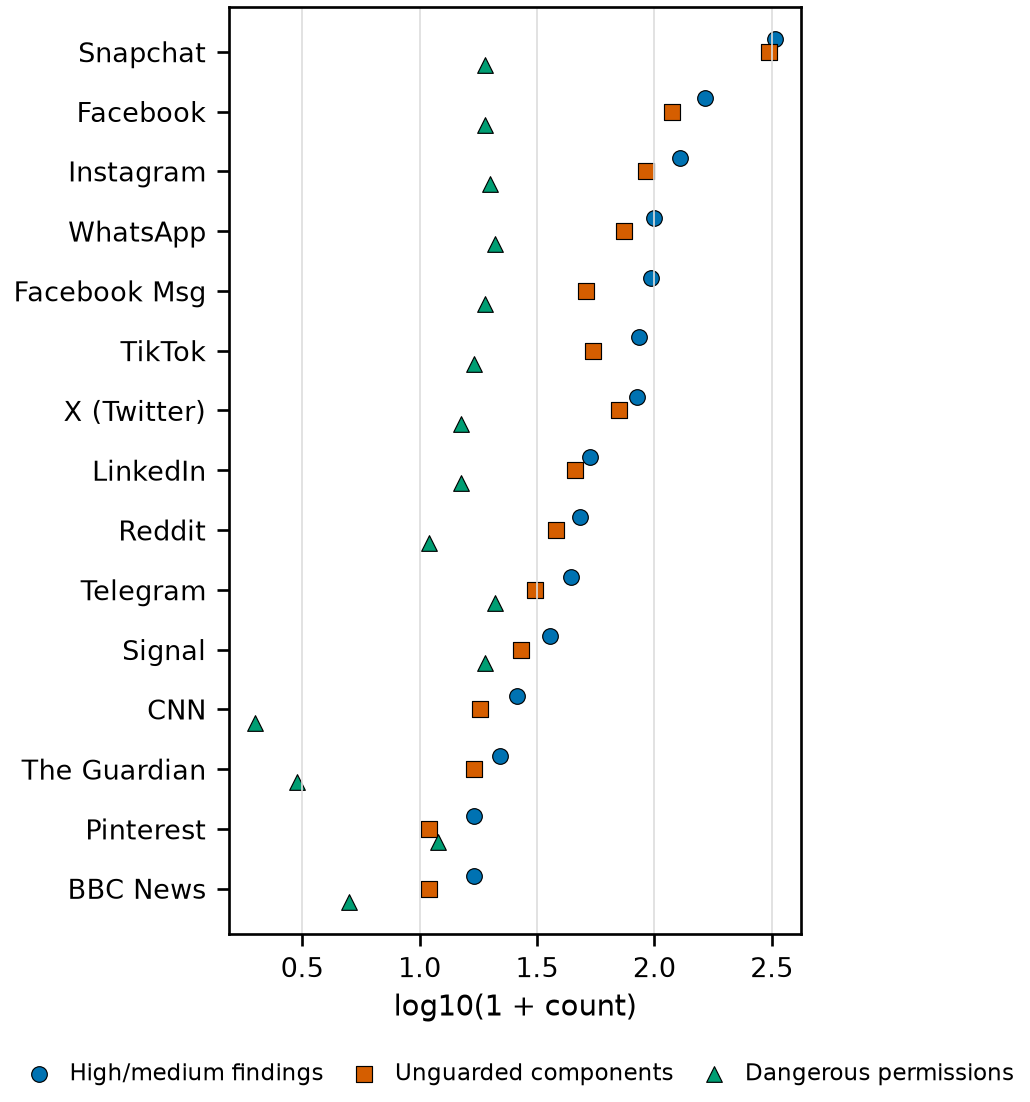
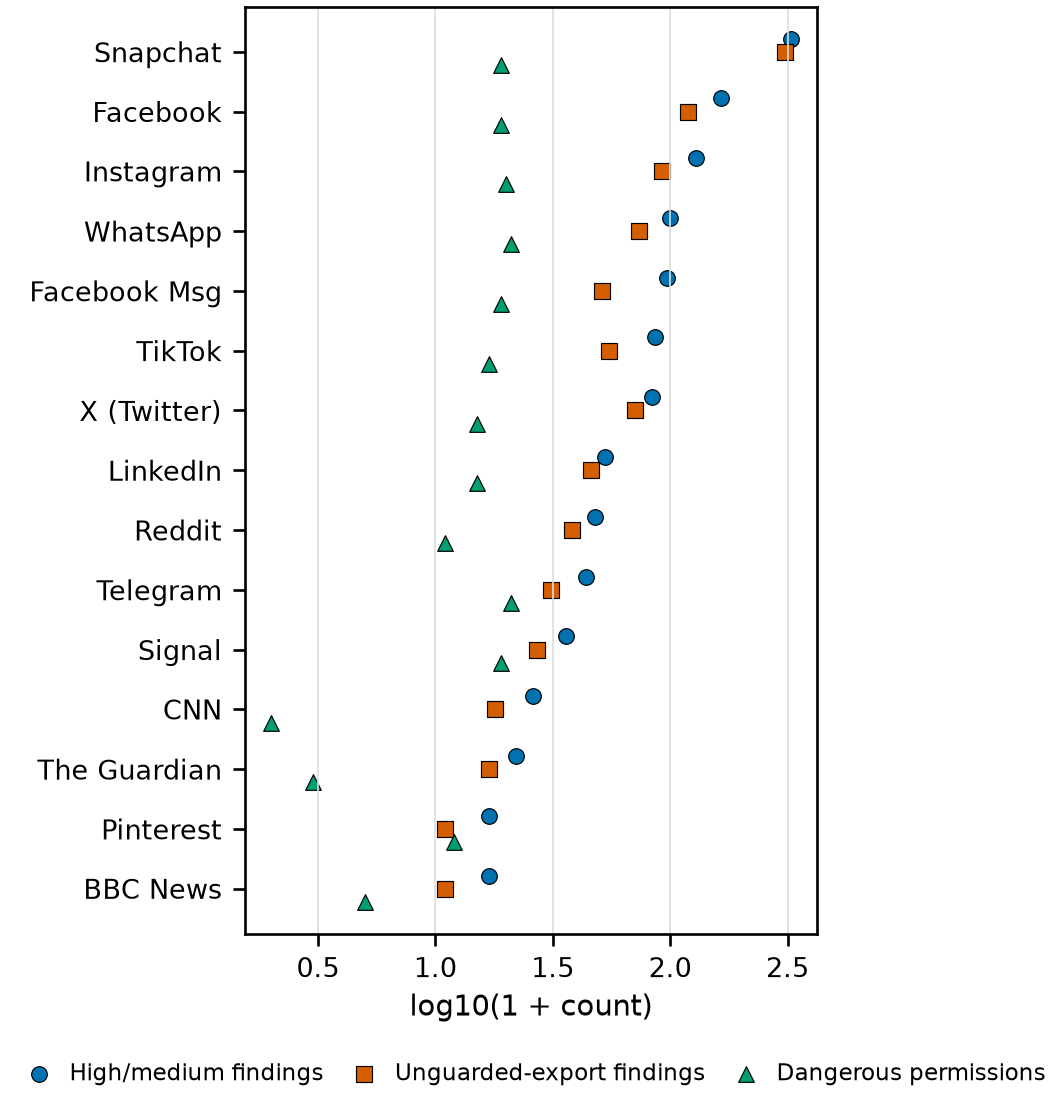
Restore a three-part Discussion and add compact Disconnect matching.
Separate evidence stability, risk-posture interpretation, and QFG; keep Algorithm 1's qualification policy distinct from build ranking; and report third-party tracker association without implying leakage.

diff --git a/content/04_methodology.tex b/content/04_methodology.tex
@@ -10,13 +10,13 @@ Collection was conducted on a non-root Motorola Moto G 5G (2024) running Android
 
 Static analysis used the harvested base and split APK artifacts associated with each selected build. The reported variables include dangerous permissions, high- and medium-severity findings, unguarded-export findings, network- and storage-related findings, privacy and platform findings, MASVS-aligned categories, and supported SDK or service indicators \cite{owaspMasvs2024}. Unguarded-export findings are High- or Medium-severity detector rows whose titles indicate a missing permission or a weak guard; they count finding rows, not unique Android components. These measurements represent descriptive exposure indicators rather than calibrated exploitability, compliance, or risk scores.
 
-Runtime analysis used package-associated evidence packs and PCAP-derived metadata. Captures were classified as strict-idle, quiescent foreground (QFG), or interactive. Strict-idle captures represent quiet foreground baselines; QFG captures represent no-touch foreground periods in which app-driven activity continued; and interactive captures exercise user-facing behavior. Runtime variables include capture count and duration, PCAP volume, packet rate, retained DNS/SNI hostname breadth, service families, protocol prevalence, and baseline-relative changes where comparable baseline and interactive evidence were available. Hostname breadth is the per-run union of retained top DNS and TLS-SNI names, not an exhaustive inventory of endpoints.
+Runtime analysis used package-associated evidence packs and PCAP-derived metadata. Captures were classified as strict-idle, quiescent foreground (QFG), or interactive. Strict-idle captures represent quiet foreground baselines; QFG captures represent no-touch foreground periods in which app-driven activity continued; and interactive captures exercise user-facing behavior. Runtime variables include capture count and duration, PCAP volume, packet rate, retained DNS/SNI hostname breadth, service families, protocol prevalence, and baseline-relative changes where comparable baseline and interactive evidence were available. Hostname breadth is the per-run union of retained top DNS and TLS-SNI names, not an exhaustive inventory of endpoints. Retained interactive DNS/SNI hostnames were matched by exact or subdomain relation against a pinned Disconnect services list; each app's documented first-party registrable domain was excluded from the third-party count \cite{disconnectTrackingProtection}.
 
 \subsection{Build Selection and Evidence Alignment}
 
 Qualification policy $P$ is the historical technical-validity rule used for the submitted cohort. A dynamic run qualifies under $P$ when it has a nonempty run identifier, \texttt{valid\_dataset\_run} status, required protocol metadata (profile, sequence, and interaction level), duration of at least 180\,s, at least 20 analysis windows of width 10\,s and stride 5\,s, a PCAP of at least 50\,000\,B (10\,000\,B for qualifying connected or text-messaging captures), and a usable PCAP analysis or an explicit no-traffic result.
 
-Qualifying runs are grouped by package, version, and base APK hash. One build group per app is then chosen by an ordered ranking on readiness, coverage of evidence classes, capped run counts, PCAP and QA state, recency, match to the then-current install, and version code. Static and runtime observations are integrated only when they refer to the same selected build. Evidence with mismatched identity, missing support, invalid QA state, or insufficient signal is excluded or deferred. Algorithm~\ref{alg:build-aligned-selection} summarizes this procedure. A later app-store update does not invalidate evidence from a recent, fully identified build; it instead creates a candidate for future longitudinal comparison.
+Qualifying runs are grouped by package, version code and name, and base APK hash. One build group per app is then chosen by an ordered ranking on readiness, coverage of evidence classes, capped run counts, PCAP and QA state, recency, match to the then-current install, and version code. Static and runtime observations are integrated only when they refer to the same selected build. Evidence with mismatched identity, missing support, invalid QA state, or insufficient signal is excluded or deferred. Algorithm~\ref{alg:build-aligned-selection} summarizes this procedure. A later app-store update does not invalidate evidence from a recent, fully identified build; it instead creates a candidate for future longitudinal comparison.
 
 \begin{algorithm}[!t]
 \caption{Build-Aligned Static-Runtime Evidence Selection}
@@ -26,11 +26,11 @@ Qualifying runs are grouped by package, version, and base APK hash. One build gr
 \ENSURE aligned app-build rows, excluded/deferred rows, source data, checksums
 \FOR{each app $a \in A$}
   \STATE retrieve candidate dynamic runs for $a$ within $W$
-  \STATE apply identity, evidence-validity, signal, PCAP, and QA requirements from $P$
-  \STATE group qualifying runs by normalized package, version code, base APK SHA-256, and artifact/build-set identity
-  \STATE identify build groups satisfying runtime evidence requirements
+  \STATE retain runs satisfying technical qualification policy $P$
+  \STATE group runs by normalized package, version code/name, and base APK SHA-256
+  \STATE summarize evidence-class coverage and readiness for each group
   \STATE select one group using the ordered build-ranking policy
-  \STATE resolve static evidence in $S$ for the same selected build
+  \STATE resolve static evidence in $S$ for the selected build
   \IF{static and dynamic identities do not align}
     \STATE exclude or defer $a$; persist the reason; continue
   \ENDIF
@@ -49,10 +49,10 @@ Qualifying runs are grouped by package, version, and base APK hash. One build gr
 
 The study reports descriptive counts, evidence-class medians, baseline-relative packet-rate changes, and exploratory Spearman associations. The reported median packet-rate shift is the app-level median of $\log_2[(I+1)/(B+1)]$, where $I$ is the interactive median packets/s and $B$ is the strict-idle median if that class is present and the QFG median otherwise. In this cohort, only TikTok lacks a selected strict-idle capture and therefore uses QFG as the baseline $B$. Cross-layer profiles use a transparent median split: higher static exposure is high- and medium-severity finding volume at or above the cohort median (52), and higher runtime activity is interactive retained-hostname count at or above the cohort median (12). Equality is assigned to the higher group. These profiles are cohort-relative and are not a composite risk score or predictive model.
 
-PCAP processing is limited to metadata and derived transport indicators. Message bodies, cookies, authorization headers, private account content, and decrypted TLS payloads are not inspected. Reproducibility artifacts include the selected-build manifest, source CSVs, generated tables and figures, inclusion and exclusion records, and SHA-256 checksums.
+PCAP processing is limited to metadata and derived transport indicators. Message bodies, cookies, authorization headers, private account content, and decrypted TLS payloads are not inspected. Reproducibility artifacts include the selected-build manifest, source CSVs, generated tables and figures, inclusion and exclusion records, SHA-256 checksums, and the pinned Disconnect list used for hostname association.
 
 \subsection{Limitations}
 
-The study is limited to 15 apps, one Android 15 physical device, one collection environment, selected interaction scenarios, and the available static detectors. Device and environment consistency improve within-study comparability but limit generalization across OEM implementations, Android versions, hardware, and networks. Runtime observations are scenario-bounded and do not establish exhaustive app behavior, while unequal capture depth may affect the precision of app-level comparisons. Multiple captures characterize within-window behavior for the selected builds; the single evidence window does not establish temporal repeatability across independent collection periods. The non-root, no-MITM design preserves a clear privacy boundary but prevents inspection of encrypted payload semantics.
+The study is limited to 15 apps, one Android 15 physical device, one collection environment, selected interaction scenarios, and the available static detectors. Device and environment consistency improve within-study comparability but limit generalization across OEM implementations, Android versions, hardware, and networks. Runtime observations are scenario-bounded and do not establish exhaustive app behavior, while unequal capture depth may affect the precision of app-level comparisons. Multiple captures characterize within-window behavior for the selected builds; the single evidence window does not establish temporal repeatability across independent collection periods. The non-root, no-MITM design preserves a clear privacy boundary but prevents inspection of encrypted payload semantics. A Disconnect blocklist match indicates association with categorized infrastructure; it does not reveal encrypted payload contents or establish private-data leakage.
 
 Static finding counts are tool-dependent exposure indicators rather than formal measures of exploitability, MASVS compliance, or privacy harm. Finding volume is exposure volume, not a severity-weighted realized-risk score. Observed runtime activity does not demonstrate malicious behavior, and limited activity does not establish low risk. The analysis therefore characterizes the static and runtime risk posture of the selected builds without inferring causation, predicting future behavior, or generalizing the results to all Android devices and app versions.

diff --git a/content/05_results.tex b/content/05_results.tex
@@ -2,7 +2,7 @@
 
 \subsection{Dataset and Evidence Provenance}
 
-The final evidence bundle included all 15 apps with static and runtime build-aligned evidence, and no app was classified as a true evidence hole. Table~\ref{tab:cutoff-evidence-summary} reports the selected runtime evidence by app and evidence class. Counts represent build-aligned runs selected from the 14-day evidence window. Full app versions, APK hashes, static and dynamic run identifiers, and alignment records are retained in the generated source bundle. Results therefore refer to selected package/version groups rather than mutable installed-app state.
+The final evidence bundle included all 15 selected builds with qualifying static evidence and both baseline-side and interactive-side runtime evidence, although evidence-class depth varied by app. Table~\ref{tab:cutoff-evidence-summary} reports the selected runtime evidence by app and evidence class. Counts represent build-aligned runs selected from the 14-day evidence window. Full app versions, APK hashes, static and dynamic run identifiers, and alignment records are retained in the generated source bundle. Results therefore refer to selected package/version groups rather than mutable installed-app state.
 
 \input{tables/table2_cutoff_evidence_summary}
 
@@ -23,7 +23,7 @@ Across all selected builds, the static export contained 1,235 high/medium findin
 
 Table~\ref{tab:runtime-behavior-summary} and Fig.~\ref{fig:runtime-coverage} report the selected runtime evidence: 123 dynamic runs (44 strict-idle, 23 QFG, and 56 interactive). QFG is retained separately because a foregrounded but untouched app may continue loading content, synchronizing services, or maintaining communication state; treating that activity as strict-idle would overstate baseline quietness. Every app contributes at least five selected runs, with the deepest coverage on CNN (12) and BBC News (10). Interaction produced clearer changes in packet rate and traffic volume than in retained hostname count. TikTok, Instagram, WhatsApp, and Facebook exhibited some of the largest interactive packet-rate or traffic-volume measurements.
 
-Interactive packet rates ranged from 14.0 packets/s (The Guardian) to 285.7 packets/s (TikTok), with a median of 41.6 packets/s. Interactive median transfer volume ranged from about 10.1\,MB (Facebook Messenger) to 211.3\,MB (Instagram). Hostname breadth was less dispersed: the median interactive retained-host count was 12, and most content apps clustered between 10 and 16 hosts. Messaging apps need a different reading: WhatsApp, Signal, and Telegram show large baseline-relative packet-rate shifts but three or fewer interactive hosts. A zero retained-hostname value does not imply an absence of traffic; packet activity may occur without a retained DNS/SNI name.
+Interactive packet rates ranged from 14.0 packets/s (The Guardian) to 285.7 packets/s (TikTok), with a median of 41.6 packets/s. Interactive median transfer volume ranged from about 10.1\,MB (Facebook Messenger) to 211.3\,MB (Instagram). Hostname breadth was less dispersed: the median interactive retained-host count was 12, and most content apps clustered between 10 and 16 hosts. Messaging apps need a different reading: WhatsApp, Signal, and Telegram show large baseline-relative packet-rate shifts but three or fewer interactive hosts. A zero retained-hostname value does not imply an absence of traffic; packet activity may occur without a retained DNS/SNI name. Third-party Disconnect matches were concentrated in the news apps---BBC News (15), The Guardian (13), and CNN (11)---while several social and messaging apps had no such matches in the selected scenarios.
 
 \input{tables/table4_runtime_behavior_summary}
 
@@ -36,8 +36,6 @@ Interactive packet rates ranged from 14.0 packets/s (The Guardian) to 285.7 pack
 
 \subsection{Integrated Static--Runtime Findings}
 
-The integrated analysis uses a transparent median split rather than an opaque composite score. Table~\ref{tab:integrated-profile-matrix} groups apps by high/medium finding volume ($\geq 52$) and interactive retained-host count ($\geq 12$); ties are assigned to the higher group. The four cells are cohort-relative evidence/posture groups (4/4/4/3), not risk ratings: high static / lower runtime indicates packaged exposure not strongly expressed as retained-name breadth in the sampled scenarios, while lower static / higher runtime indicates active communication that is not matched by high detector volume. Disagreement between the layers is itself informative for review.
-
 \input{tables/table5_integrated_profile_matrix}
 
 \begin{figure*}[!t]
@@ -49,7 +47,7 @@ The integrated analysis uses a transparent median split rather than an opaque co
 
 \subsection{App-Level Divergence and Representative Cases}
 
-Several apps illustrate why static and runtime evidence should be interpreted together. Snapchat is the clearest static-heavy case: its selected build has the largest static finding volume, while its interactive retained-host median (11) sits just below the cohort runtime cutoff of 12. Facebook combines high static exposure with broad observed runtime hostname activity. CNN and BBC News exhibit lower static finding volumes than the large social platforms but show clear interactive broadening and substantial runtime evidence depth.
+Disagreement between packaged exposure and observed hostname breadth is itself informative for review. Several apps illustrate why static and runtime evidence should be interpreted together. Snapchat is the clearest static-heavy case: its selected build has the largest static finding volume, while its interactive retained-host median (11) sits just below the cohort runtime cutoff of 12. Facebook combines high static exposure with broad observed runtime hostname activity. CNN and BBC News exhibit lower static finding volumes than the large social platforms but show clear interactive broadening and substantial runtime evidence depth.
 
 Messaging apps provide a different pattern. Signal and Telegram exhibit comparatively narrow observed hostname breadth, yet both show pronounced packet-rate changes relative to quiet baselines. WhatsApp similarly demonstrates a large baseline-relative packet-rate increase despite a smaller interactive host count than content-feed apps. TikTok and Instagram combine elevated static exposure with substantial runtime activity under the selected scenarios. Fig.~\ref{fig:static-runtime-scatter} and Table~\ref{tab:statistical-summary} show the same pattern. The near-zero association between high/medium findings and interactive retained-host count persists after excluding Snapchat, so it is not an artifact of the largest static outlier: a static-only table would miss runtime-heavy apps, and a runtime-only table would miss packaged exposure. In this bundle, all 15 apps have both baseline-side and interactive-side evidence, so the reported median packet-rate shift is not an artifact of incomplete app-level eligibility.
 

diff --git a/content/06_discussion.tex b/content/06_discussion.tex
@@ -1,13 +1,15 @@
 \section{Discussion}
 
-\subsection{Interpreting Static and Runtime Evidence}
+\subsection{Evidence Stability Under App-Update Churn}
+
+The fixed recent-evidence window separates publication readiness from the continuously changing app-store queue. Once a fully identified build is linked to qualifying static and runtime evidence, a later update does not invalidate that observation; the newer build becomes a candidate for future longitudinal comparison. The window therefore strengthens recency, build alignment, and provenance, but it does not establish temporal repeatability across independent collection periods.
+
+\subsection{Interpreting Static and Runtime Risk Posture}
 
 Static and runtime evidence describe related but different dimensions of Android app risk posture. Static analysis characterizes potential exposure: declared capabilities, packaged attack surface, unguarded-export findings, permissions, configuration choices, and detector rows. Runtime analysis characterizes observed behavior during selected strict-idle, QFG, and interactive scenarios, including communication intensity and retained DNS/SNI hostname breadth. Because the layers measure different properties, a high static finding count does not necessarily imply broad retained-hostname activity, and limited observed runtime activity does not demonstrate low exposure.
 
-Their disagreement is itself informative for review. Low observed activity does not negate a broad packaged surface, and high runtime activity does not by itself establish exploitation. In this dataset the two layers therefore function as complementary evidence streams rather than interchangeable scores. The 14-day window keeps each claim tied to a concrete build: a later store update does not invalidate that evidence, but a single window also does not establish temporal repeatability across independent collection periods. The integrated results should be read as a cross-layer characterization of risk posture, not as causation, prediction, exploitability, or evidence of malicious behavior.
+Their disagreement is itself informative for review. Low observed activity does not negate a broad packaged surface, and high runtime activity does not by itself establish exploitation. In this dataset the two layers therefore function as complementary evidence streams rather than interchangeable scores. The integrated results should be read as a cross-layer characterization of risk posture, not as causation, prediction, exploitability, or evidence of malicious behavior.
 
-\subsection{App-Level Profiles and QFG}
+\subsection{QFG Separation and Practical Implications}
 
-The median-split profiles in Table~\ref{tab:integrated-profile-matrix} are triage signals rather than rankings or composite scores. Static-heavy apps such as Snapchat expose substantial packaged surfaces even when selected runtime scenarios do not produce the broadest hostname breadth; finding volume here is exposure volume, not severity-weighted realized risk. Lower-static but higher-runtime cases such as CNN and BBC News suggest follow-up scenario review, while Facebook, Instagram, TikTok, and X (Twitter) are elevated on both layers.
-
-The 23 QFG captures remain a separate class. Counting that activity as strict-idle would overstate baseline quietness; discarding it would remove app-driven foreground behavior that is not user inactivity in the strictest sense. Keeping QFG separate lets the paper describe app-driven foreground behavior without claiming that it represents strict user inactivity.
+The 23 QFG captures remain a separate class. Discarding QFG would remove meaningful app-driven foreground behavior, while merging it into strict idle would overstate baseline quietness. Keeping QFG separate lets the paper describe app-driven foreground behavior without claiming that it represents user inactivity in the strictest sense.

diff --git a/content/07_conclusion.tex b/content/07_conclusion.tex
@@ -1,5 +1,7 @@
 \section{Conclusion}
 
-This study presented a build-aligned static-runtime evidence model for evaluating the privacy and security risk posture of Android consumer apps. A fixed 14-day window served as a provenance and build-alignment control rather than a longitudinal experiment. At cutoff, all 15 apps had usable build-backed evidence. Static analysis identified 1,235 high- and medium-severity findings and 955 unguarded-export findings. Runtime analysis examined 123 captures (44 strict-idle, 23 QFG, and 56 interactive), with a median additive-smoothed $\log_{2}$ packet-rate shift of 3.39.
+This study presented a build-aligned static-runtime evidence model for evaluating the privacy and security risk posture of 15 Android consumer apps. A fixed 14-day window served as a provenance and build-alignment control rather than a longitudinal experiment. At cutoff, all 15 apps had usable build-backed evidence.
 
-The association between static finding volume and interactive retained-host count was near zero (Table~\ref{tab:statistical-summary}). The two layers provide an auditable characterization of risk posture while preserving the distinction between potential exposure and observed behavior; neither should be read as exploitability, malice, or a calibrated probability of harm. Future work includes longitudinal build-to-build comparisons, additional devices and Android versions, and successive evidence windows under the same provenance contract.
+Static analysis identified 1,235 high- and medium-severity findings and 955 unguarded-export findings. Runtime analysis examined 123 captures (44 strict-idle, 23 QFG, and 56 interactive), with a median additive-smoothed $\log_{2}$ packet-rate shift of 3.39. The association between static finding volume and interactive retained-host count was near zero (Table~\ref{tab:statistical-summary}).
+
+The two layers provide an auditable characterization of risk posture while preserving the distinction between potential exposure and observed behavior; neither should be read as exploitability, malice, or a calibrated probability of harm. Future work includes longitudinal build-to-build comparisons, additional devices and Android versions, and successive evidence windows under the same provenance contract.

diff --git a/scripts/generate_publication_assets.py b/scripts/generate_publication_assets.py
@@ -588,7 +588,8 @@ def build_tables(manifest: pd.DataFrame, app: pd.DataFrame, static: pd.DataFrame
     note5 = (
         f"Higher static uses high/medium findings $\\geq {hm_med:.0f}$; "
         f"higher runtime uses interactive hosts $\\geq {dom_med:.0f}$. "
-        "Ties are assigned to the higher group."
+        "Ties are assigned to the higher group. "
+        "Cells are cohort-relative evidence/posture groups, not risk ratings."
     )
     write_tex_table(
         TABLE_DIR / "table5_integrated_profile_matrix.tex",
@@ -730,7 +731,7 @@ def build_figures(static: pd.DataFrame, dynamic: pd.DataFrame) -> None:
     fig, ax = plt.subplots(figsize=(3.45, 4.95))
     series = [
         ("high_medium_findings", "High/medium findings", "#0072B2", "o", 0.22),
-        ("exported_components_without_permission_guard", "Unguarded components", "#D55E00", "s", 0.0),
+        ("exported_components_without_permission_guard", "Unguarded-export findings", "#D55E00", "s", 0.0),
         ("dangerous_permissions", "Dangerous permissions", "#009E73", "^", -0.22),
     ]
     for col, label, color, marker, offset in series:

diff --git a/tables/table5_integrated_profile_matrix.tex b/tables/table5_integrated_profile_matrix.tex
@@ -12,5 +12,5 @@ Higher static & 4: Snapchat, Facebook Messenger, WhatsApp, LinkedIn & 4: Faceboo
 \bottomrule
 \end{tabular}
 \vspace{1pt}
-\begin{flushleft}\scriptsize Higher static uses high/medium findings $\geq 52$; higher runtime uses interactive hosts $\geq 12$. Ties are assigned to the higher group.\end{flushleft}
+\begin{flushleft}\scriptsize Higher static uses high/medium findings $\geq 52$; higher runtime uses interactive hosts $\geq 12$. Ties are assigned to the higher group. Cells are cohort-relative evidence/posture groups, not risk ratings.\end{flushleft}
 \end{table}

diff --git a/main.tex b/main.tex
@@ -43,6 +43,8 @@
 
 % IEEE bibliography
 \bibliographystyle{IEEEtran}
+% Balance leftover references across the two columns of the last page.
+\IEEEtriggeratref{16}
 \bibliography{references/references}
 
 \end{document}
